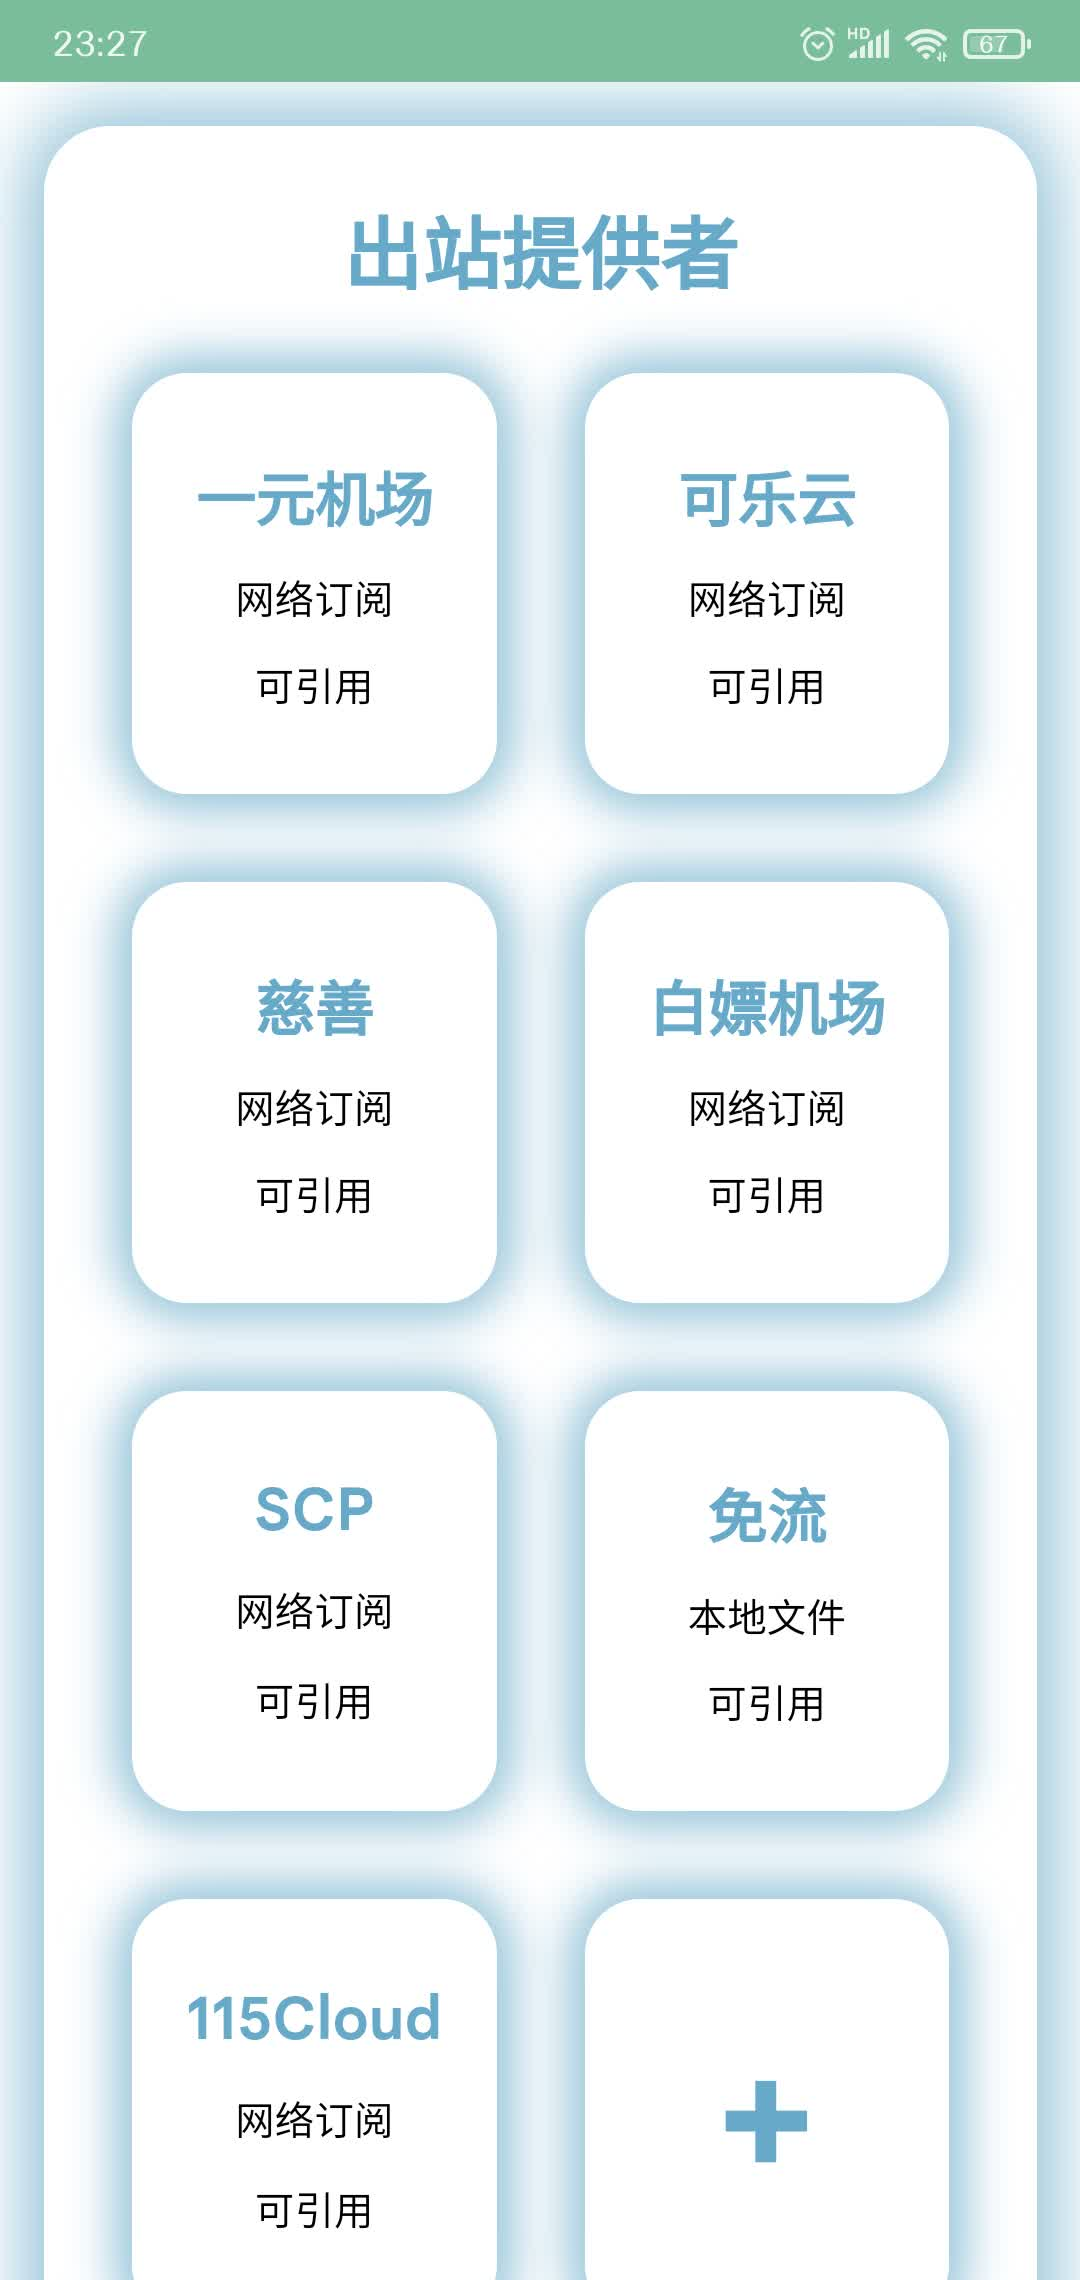
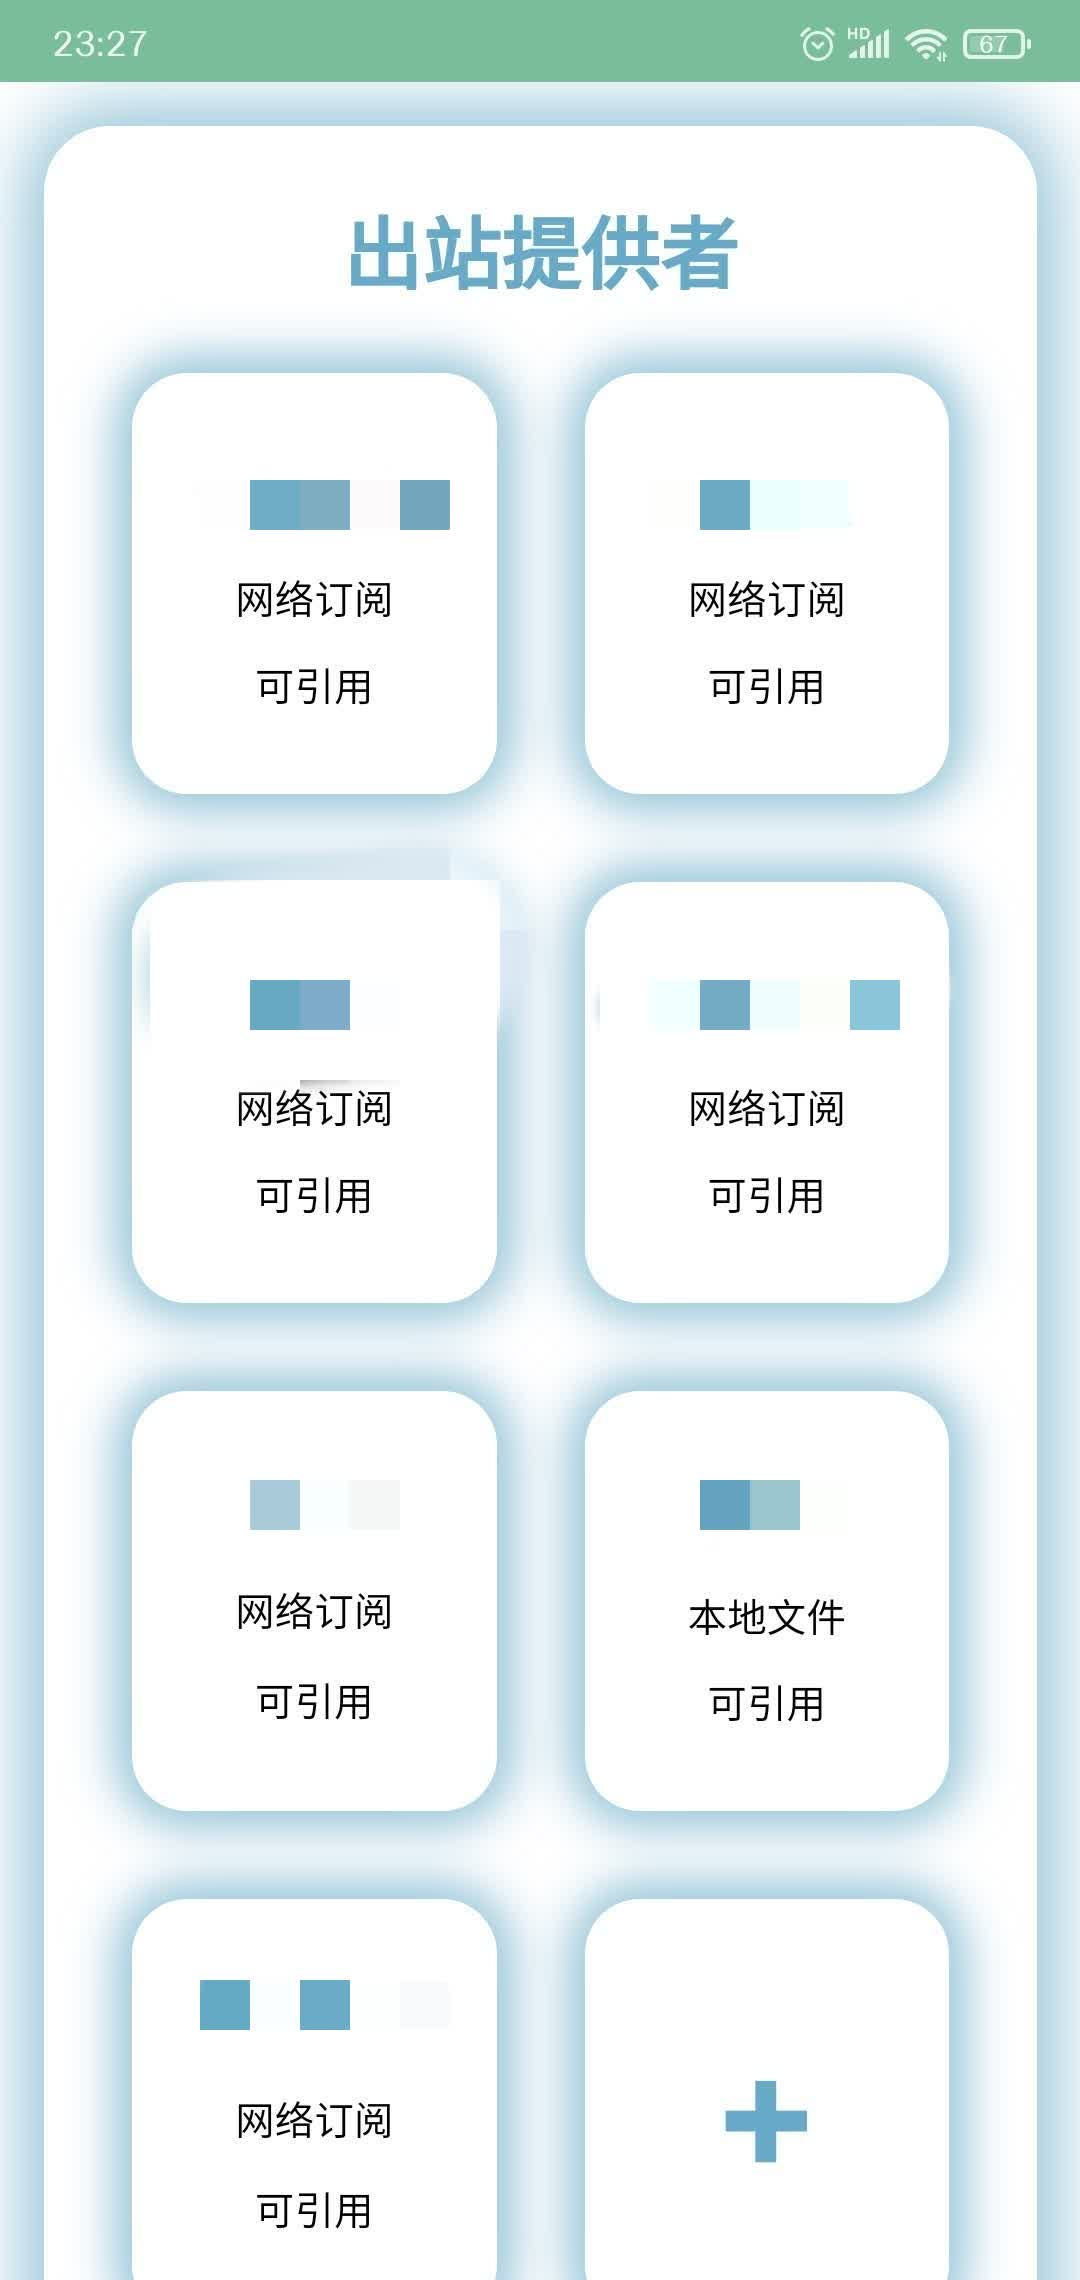
给部分图片打上马赛克

diff --git a/source/_posts/神秘模块详细教程.md b/source/_posts/神秘模块详细教程.md
@@ -11,7 +11,7 @@ categories:
   - VPN
 abbrlink: 1542838017
 date: 2023-05-05 09:28:07
-updated: 2024-02-16 00:05:00
+updated: 2024-03-09 11:15:00
 ---
 # 阅读须知
   - 本教程所有代码块中以 $ 或 # 开头的是命令，没有的是命令执行结果或者代码
